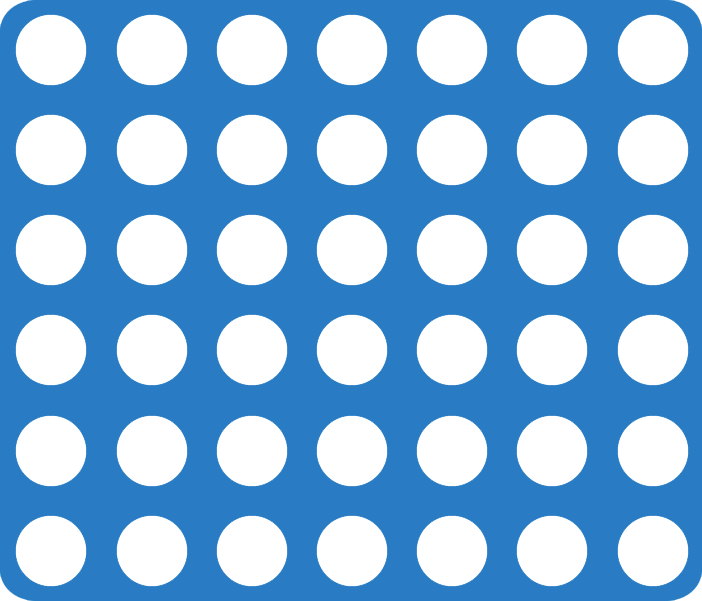
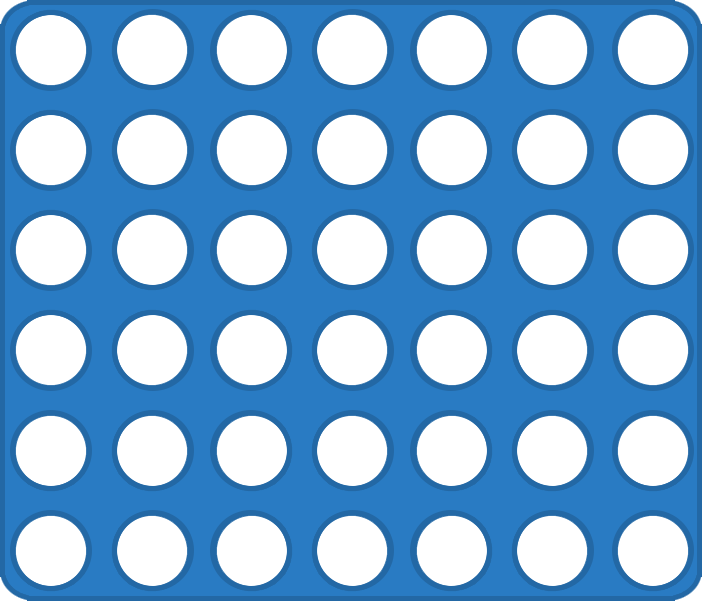
Remove excess assets

diff --git a/js/main.js b/js/main.js
@@ -150,7 +150,7 @@ function getWinner() {
 
 function checkRow(evt) {
   clickedIndex = parseInt(evt.target.id.slice(4))
-  
+
   columnsArr.forEach(function (column, idx) {
     if (column.includes(clickedIndex)) {
       iteratingArr = columnsArr[idx]
@@ -183,5 +183,5 @@ function setTransition(index) {
 function tileDrop(gridElement, index) {
   gridElement.style.zIndex = -1
   gridElement.classList.add('fall')
-  gridElement.style.backgroundImage = boardEls[index] === 1 ? "url('../assets/images/RedPiece2.png')" : "url('../assets/images/YellowPiece2.png')"
+  gridElement.style.backgroundImage = boardEls[index] === 1 ? "url('../assets/images/RedPiece.png')" : "url('../assets/images/YellowPiece.png')"
 }

diff --git a/css/style.css b/css/style.css
@@ -20,7 +20,7 @@ body {
   width: fit-content;
   grid-template-columns: repeat(7, 11vmin);
   grid-template-rows: repeat(6, 11vmin);
-  background-image: url("../assets/images/Board2.png");
+  background-image: url("../assets/images/Board.png");
   background-size: cover;
   justify-content: center;
   align-items: center;

diff --git a/README.md b/README.md
@@ -9,6 +9,7 @@ The game can be played [here](https://connect4naveen.netlify.app). The game is p
 2. Once you "connect 4", you will be presented with a win message and an option to reset using the button below the board.
 ## Screenshots
 
+
 ## Technologies Used
 
 ## Future Enhancements
